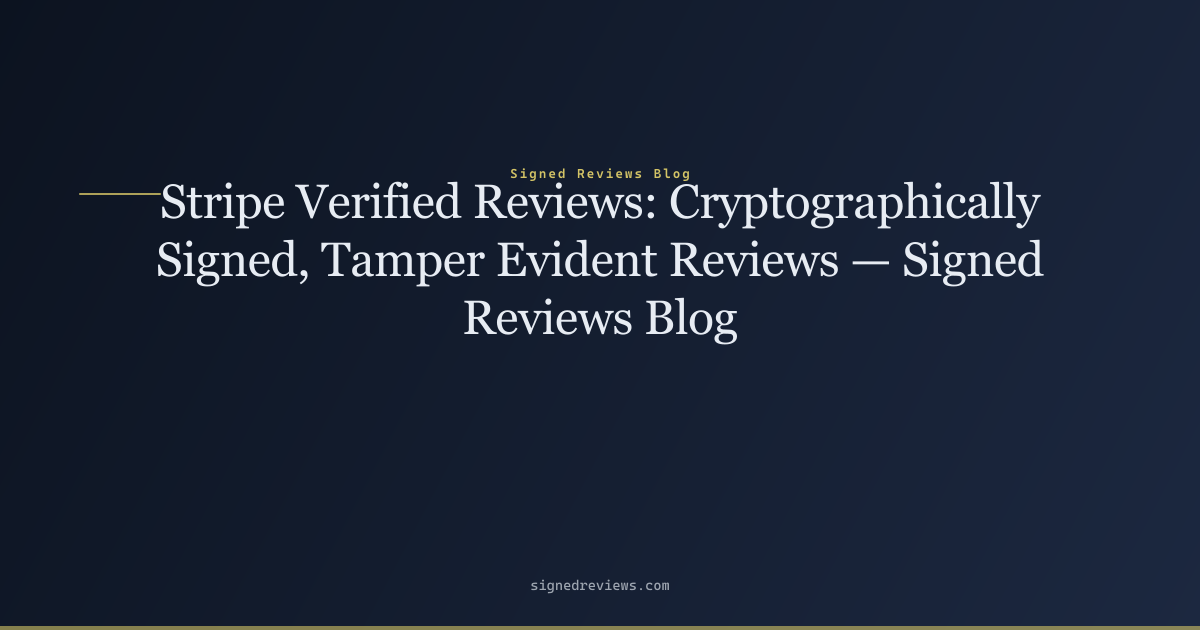
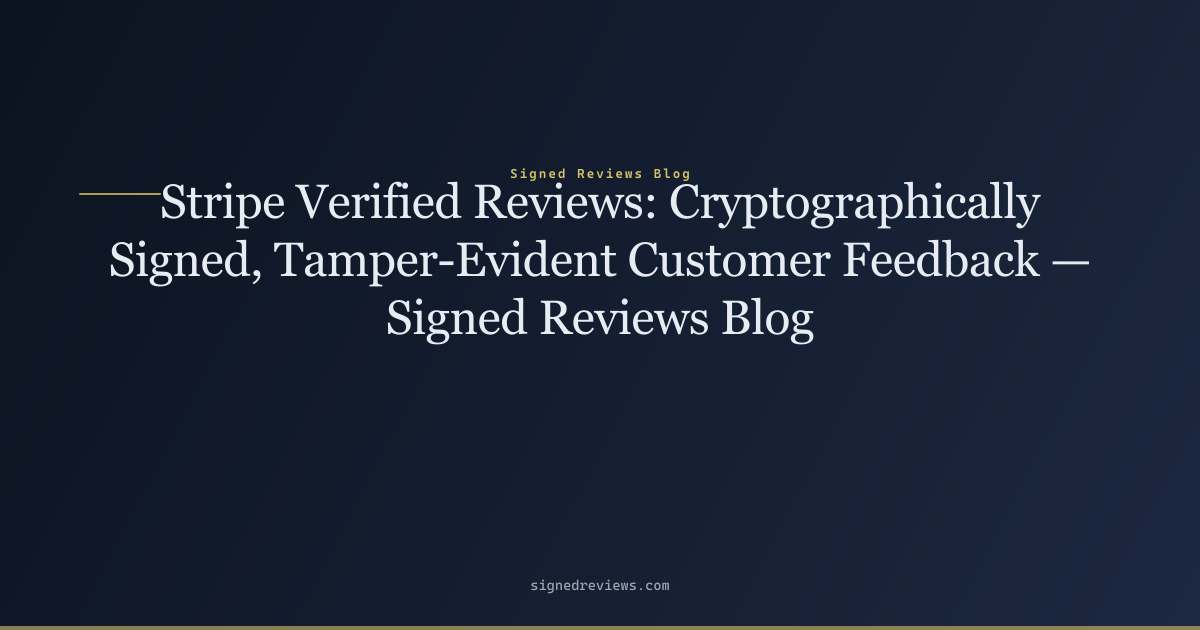
Fix: correct title and add tamper-evident reviews H3 section

Changed region(s): [[0.0925, 0.3619, 0.8942, 0.5429]]

diff --git a/blog/stripe-verified-reviews/index.html b/blog/stripe-verified-reviews/index.html
@@ -3,20 +3,20 @@
 <head>
   <meta charset="UTF-8">
   <meta name="viewport" content="width=device-width, initial-scale=1.0">
-  <title>Stripe Verified Reviews: Cryptographically Signed, Tamper Evident Reviews — Signed Reviews Blog — Signed Reviews Blog</title>
+  <title>Stripe Verified Reviews: Cryptographically Signed, Tamper-Evident Customer Feedback — Signed Reviews Blog — Signed Reviews Blog</title>
   <meta name="description" content="Stripe verified reviews are tamper evident reviews independently attested by the payment processor. Each signed review is cryptographically hashed together with">
   <link rel="canonical" href="https://signedreviews.com/blog/stripe-verified-reviews/">
   <meta name="robots" content="index, follow">
   <meta name="theme-color" content="#0c1320">
 
   <meta property="og:type" content="article">
-  <meta property="og:title" content="Stripe Verified Reviews: Cryptographically Signed, Tamper Evident Reviews — Signed Reviews Blog — Signed Reviews Blog">
+  <meta property="og:title" content="Stripe Verified Reviews: Cryptographically Signed, Tamper-Evident Customer Feedback — Signed Reviews Blog — Signed Reviews Blog">
   <meta property="og:description" content="Stripe verified reviews are tamper evident reviews independently attested by the payment processor. Each signed review is cryptographically hashed together with">
   <meta property="og:url" content="https://signedreviews.com/blog/stripe-verified-reviews/">
   <meta property="og:site_name" content="Signed Reviews">
   <meta property="og:image" content="https://signedreviews.com/images/og/stripe-verified-reviews.png">
   <meta name="twitter:card" content="summary_large_image">
-  <meta name="twitter:title" content="Stripe Verified Reviews: Cryptographically Signed, Tamper Evident Reviews — Signed Reviews Blog — Signed Reviews Blog">
+  <meta name="twitter:title" content="Stripe Verified Reviews: Cryptographically Signed, Tamper-Evident Customer Feedback — Signed Reviews Blog — Signed Reviews Blog">
   <meta name="twitter:description" content="Stripe verified reviews are tamper evident reviews independently attested by the payment processor. Each signed review is cryptographically hashed together with">
   <meta name="twitter:image" content="https://signedreviews.com/images/og/stripe-verified-reviews.png">
 
@@ -523,9 +523,9 @@ main { padding: 0; }
     })();
   </script>
   <script type="application/ld+json">{"@context":"https://schema.org","@type":"Organization","name":"Signed Reviews","legalName":"Paid Rightly LLC","url":"https://signedreviews.com","logo":"https://signedreviews.com/images/SignedReviews_logo_only.png","description":"Signed Reviews is a SaaS platform that helps businesses collect verified, tamper-evident customer reviews by linking each review to a completed Stripe transaction.","email":"support@signedreviews.com","address":{"@type":"PostalAddress","streetAddress":"1209 Mountain Road Pl NE, Ste N","addressLocality":"Albuquerque","addressRegion":"NM","postalCode":"87110","addressCountry":"US"}}</script>
-  <script type="application/ld+json">{"@context":"https://schema.org","@type":"BreadcrumbList","itemListElement":[{"@type":"ListItem","position":1,"name":"Home","item":"https://signedreviews.com/"},{"@type":"ListItem","position":2,"name":"Blog","item":"https://signedreviews.com/blog/"},{"@type":"ListItem","position":3,"name":"Stripe Verified Reviews: Cryptographically Signed, Tamper Evident Reviews","item":"https://signedreviews.com/blog/stripe-verified-reviews/"}]}</script>
+  <script type="application/ld+json">{"@context":"https://schema.org","@type":"BreadcrumbList","itemListElement":[{"@type":"ListItem","position":1,"name":"Home","item":"https://signedreviews.com/"},{"@type":"ListItem","position":2,"name":"Blog","item":"https://signedreviews.com/blog/"},{"@type":"ListItem","position":3,"name":"Stripe Verified Reviews: Cryptographically Signed, Tamper-Evident Customer Feedback","item":"https://signedreviews.com/blog/stripe-verified-reviews/"}]}</script>
 
-  <script type="application/ld+json">{"@context":"https://schema.org","@type":"BlogPosting","headline":"Stripe Verified Reviews: Cryptographically Signed, Tamper Evident Reviews — Signed Reviews Blog","description":"Stripe verified reviews are tamper evident reviews independently attested by the payment processor. Each signed review is cryptographically hashed together with","datePublished":"2026-07-24","dateModified":"2026-07-24","mainEntityOfPage":{"@type":"WebPage","@id":"https://signedreviews.com/blog/stripe-verified-reviews/"},"image":["https://signedreviews.com/images/og/stripe-verified-reviews.png"],"author":{"@type":"Organization","name":"Signed Reviews","url":"https://signedreviews.com"},"publisher":{"@type":"Organization","name":"Signed Reviews","logo":{"@type":"ImageObject","url":"https://signedreviews.com/images/SignedReviews_logo_only.png"}}}</script>
+  <script type="application/ld+json">{"@context":"https://schema.org","@type":"BlogPosting","headline":"Stripe Verified Reviews: Cryptographically Signed, Tamper-Evident Customer Feedback — Signed Reviews Blog","description":"Stripe verified reviews are tamper evident reviews independently attested by the payment processor. Each signed review is cryptographically hashed together with","datePublished":"2026-07-24","dateModified":"2026-07-24","mainEntityOfPage":{"@type":"WebPage","@id":"https://signedreviews.com/blog/stripe-verified-reviews/"},"image":["https://signedreviews.com/images/og/stripe-verified-reviews.png"],"author":{"@type":"Organization","name":"Signed Reviews","url":"https://signedreviews.com"},"publisher":{"@type":"Organization","name":"Signed Reviews","logo":{"@type":"ImageObject","url":"https://signedreviews.com/images/SignedReviews_logo_only.png"}}}</script>
 </head>
 <body>
   <a class="skip-link" href="#main">Skip to main content</a>
@@ -566,7 +566,7 @@ main { padding: 0; }
     <section class="page-hero">
       <div class="page-hero-inner">
         <span class="eyebrow">Blog</span>
-        <h1>Stripe Verified Reviews: Cryptographically Signed, Tamper Evident Reviews — Signed Reviews Blog</h1>
+        <h1>Stripe Verified Reviews: Cryptographically Signed, Tamper-Evident Customer Feedback — Signed Reviews Blog</h1>
         <p>Stripe verified reviews are tamper evident reviews independently attested by the payment processor. Each signed review is cryptographically hashed together with</p>
       </div>
     </section>

diff --git a/blog/index.html b/blog/index.html
@@ -608,7 +608,7 @@ main { padding: 0; }
       <p style="margin:0;color:var(--text);font-size:.95rem;">Transaction verified reviews are independently confirmed by a payment processor — not by merchant-supplied data. Here's how they work, how they differ from emai</p>
     </div>
     <div style="margin-bottom:1.5rem;padding-bottom:1.5rem;border-bottom:1px solid var(--border);">
-      <h2 style="margin:0 0 .3rem;font-size:1.25rem;"><a href="/blog/stripe-verified-reviews/" style="text-decoration:none;">Stripe Verified Reviews: Cryptographically Signed, Tamper Evident Reviews — Signed Reviews Blog</a></h2>
+      <h2 style="margin:0 0 .3rem;font-size:1.25rem;"><a href="/blog/stripe-verified-reviews/" style="text-decoration:none;">Stripe Verified Reviews: Cryptographically Signed, Tamper-Evident Customer Feedback — Signed Reviews Blog</a></h2>
       <p class="post-meta" style="color:var(--muted);font-size:.85rem;margin:0 0 .4rem;">2026-07-24</p>
       <p style="margin:0;color:var(--text);font-size:.95rem;">Stripe verified reviews are tamper evident reviews independently attested by the payment processor. Each signed review is cryptographically hashed together with</p>
     </div>

diff --git a/files/blog/stripe-verified-reviews.md b/files/blog/stripe-verified-reviews.md
@@ -1,4 +1,4 @@
-# Stripe Verified Reviews: Cryptographically Signed, Tamper Evident Reviews — Signed Reviews Blog
+# Stripe Verified Reviews: Cryptographically Signed, Tamper-Evident Customer Feedback — Signed Reviews Blog
 
 **Published:** 2026-07-24 · **Author:** Signed Reviews Team · **Description:** Stripe verified reviews are tamper evident reviews independently attested by the payment processor. Each signed review is cryptographically hashed together with the Stripe charge ID, making tampering autodetected without relying on manual audits or merchant policies.
 
